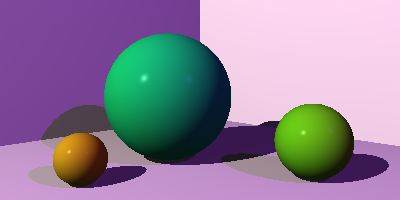
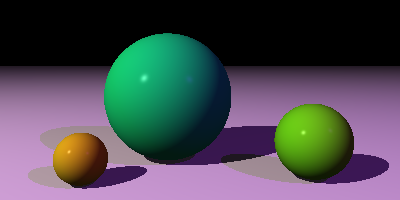
plane in demo

diff --git a/src/main.rs b/src/main.rs
@@ -73,24 +73,10 @@ fn demo() {
     use image::ImageBuffer;
     use std::f32::consts::PI;
 
+    let identity = identity4();
+
     let floor_material = Material::new(Rgb::new(1.0, 0.9, 0.9), 0.1, 0.9, 0.0, 200.0);
-    let floor_transf = Matrix4::from_nonuniform_scale(10.0, 0.01, 10.0);
-    let floor_inv_transf = floor_transf.inverse_transform().unwrap();
-    let floor = Object::sphere(&floor_transf, &floor_inv_transf, false);
-
-    let left_wall_transf = Matrix4::from_translation(Vector3::new(0.0, 0.0, 5.0))
-        * Matrix4::from_angle_y(Rad(PI / -4.0))
-        * Matrix4::from_angle_x(Rad(PI / 2.0))
-        * Matrix4::from_nonuniform_scale(10.0, 0.01, 10.0);
-    let left_wall_inv_transf = left_wall_transf.inverse_transform().unwrap();
-    let left_wall = Object::sphere(&left_wall_transf, &left_wall_inv_transf, false);
-
-    let right_wall_transf = Matrix4::from_translation(Vector3::new(0.0, 0.0, 5.0))
-        * Matrix4::from_angle_y(Rad(PI / 4.0))
-        * Matrix4::from_angle_x(Rad(PI / 2.0))
-        * Matrix4::from_nonuniform_scale(10.0, 0.01, 10.0);
-    let right_wall_inv_transf = right_wall_transf.inverse_transform().unwrap();
-    let right_wall = Object::sphere(&right_wall_transf, &right_wall_inv_transf, false);
+    let floor = Object::plane(&identity, &identity, false);
 
     let middle_material = Material::new(Rgb::new(0.1, 1.0, 0.5), 0.1, 0.7, 0.3, 200.0);
     let middle_transf = Matrix4::from_translation(Vector3::new(-0.5, 1.0, 0.5));
@@ -123,8 +109,6 @@ fn demo() {
         .point_light(light1)
         .point_light(light2)
         .primitive(Primitive::new(&floor, &floor_material))
-        .primitive(Primitive::new(&left_wall, &floor_material))
-        .primitive(Primitive::new(&right_wall, &floor_material))
         .primitive(Primitive::new(&middle, &middle_material))
         .primitive(Primitive::new(&right, &right_material))
         .primitive(Primitive::new(&left, &left_material))
